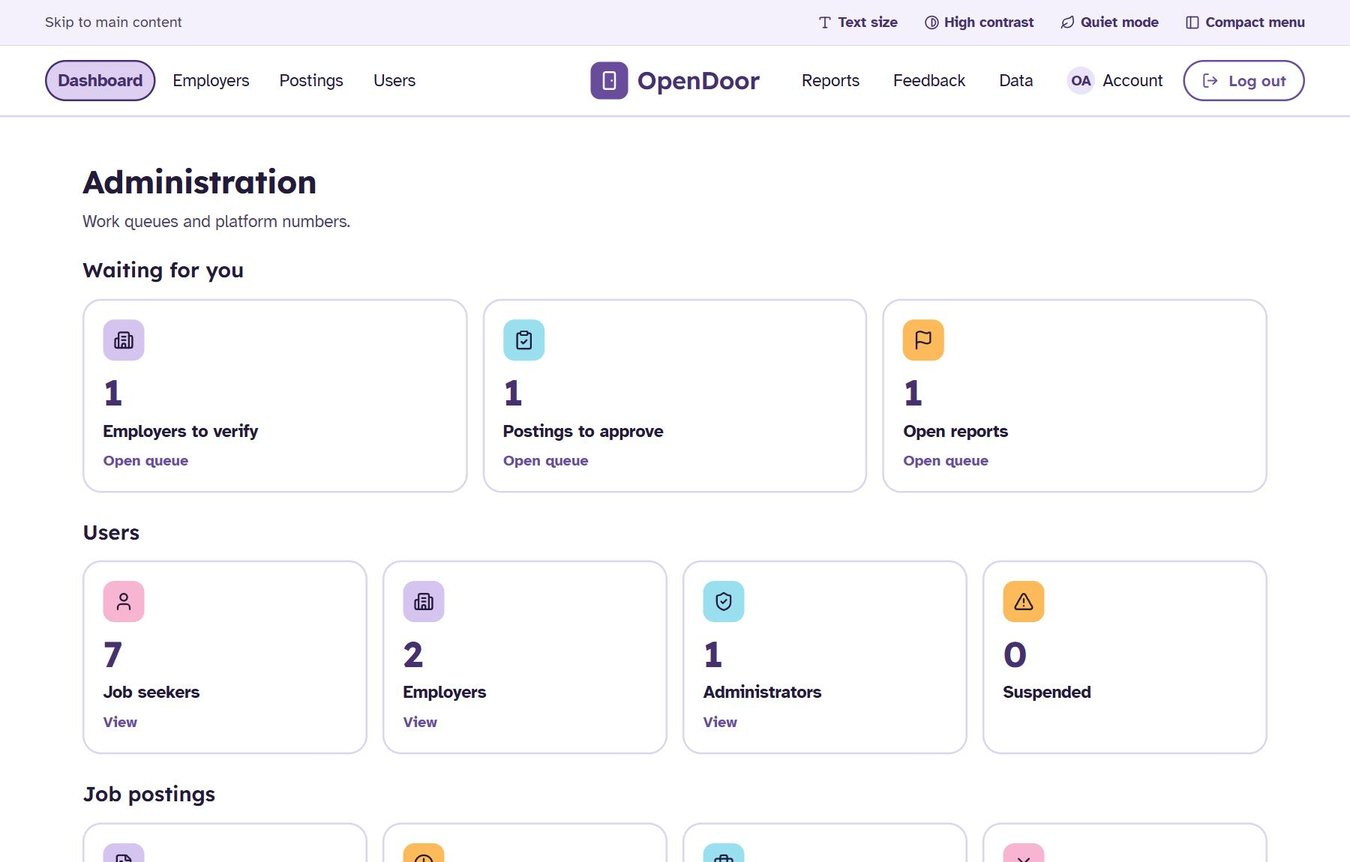
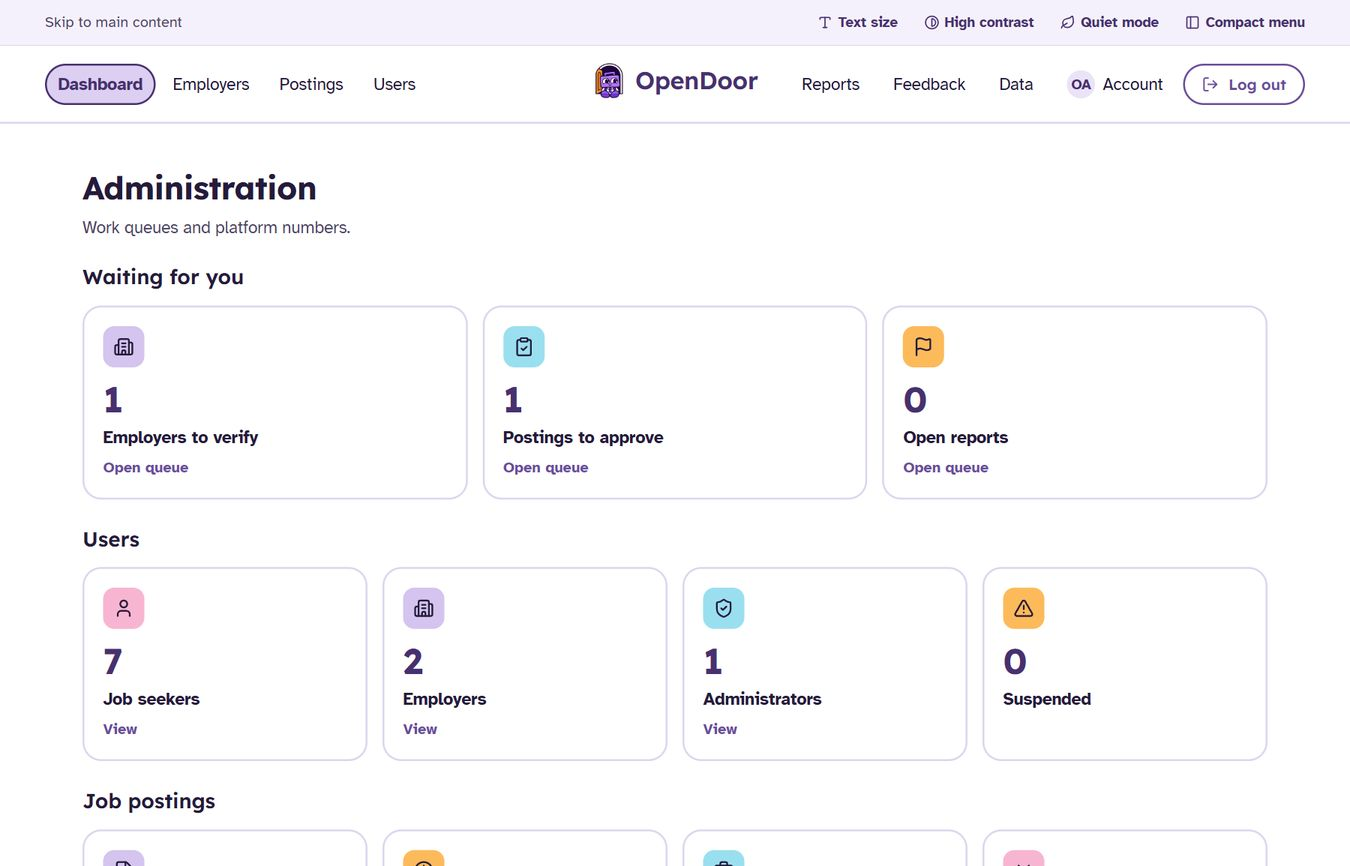
docs(sia): diagrams and screenshots as deployed
Email through Brevo's HTTPS API, the Vercel address, the scheduler in
the Core container and the onboarding columns in the ERD; 10 screens
recaptured read-only from production with the new logo.

diff --git a/docs/diagrams/diagrams.py b/docs/diagrams/diagrams.py
@@ -116,7 +116,7 @@ arrow(ax, (0.76, 0.39), (0.84, 0.60))
 arrow(ax, (0.76, 0.36), (0.84, 0.465))
 arrow(ax, (0.76, 0.33), (0.84, 0.325))
 ax.text(0.80, 0.25, "HTTPS\nREST/JSON", ha="center", fontsize=7.5)
-box(ax, 0.84, 0.08, 0.13, 0.10, "Email provider\n(SMTP, chosen\nat deployment)", C["ext"], 8)
+box(ax, 0.84, 0.08, 0.13, 0.10, "Email provider\n(Brevo,\nHTTPS API)", C["ext"], 8)
 arrow(ax, (0.57, 0.26), (0.84, 0.15), "notices,\nreset links", off=(0.085, 0.005))
 lx = 0.02
 for i, (k, lab) in enumerate([("client", "Client"), ("gw", "Gateway"), ("svc", "Service"),
@@ -205,12 +205,12 @@ ax.text(0.5, 0.975, "Deployment architecture and network boundaries", ha="center
         fontsize=12, fontweight="bold", color=GOLD)
 box(ax, 0.02, 0.62, 0.13, 0.13, "User browser\n(desktop / phone,\nscreen reader)", C["actor"], 8.5, True)
 zone(ax, 0.20, 0.60, 0.17, 0.25, "Vercel  (public)")
-box(ax, 0.215, 0.63, 0.14, 0.14, "React SPA build\nopendoor.vercel.app\nVITE_API_URL", C["client"], 8.5)
+box(ax, 0.215, 0.63, 0.14, 0.14, "React SPA build\nopendoor-rust.vercel.app\nVITE_API_URL", C["client"], 8.5)
 zone(ax, 0.42, 0.05, 0.40, 0.85, "Railway project  ·  production environment")
 zone(ax, 0.44, 0.66, 0.36, 0.17, "Public network (HTTPS, *.up.railway.app)")
 box(ax, 0.52, 0.68, 0.20, 0.10, "api-gateway\n:8080 (Express)", C["gw"], 8.5, True)
 zone(ax, 0.44, 0.08, 0.36, 0.55, "Private network (*.railway.internal, not reachable from internet)")
-box(ax, 0.46, 0.40, 0.15, 0.12, "core-api :8001\nLaravel 13, FrankenPHP\n+ core-scheduler", C["svc"], 8)
+box(ax, 0.46, 0.40, 0.15, 0.12, "core-api :8001\nLaravel 13, FrankenPHP\n+ scheduler (same container)", C["svc"], 8)
 box(ax, 0.63, 0.40, 0.15, 0.12, "insights-service\n:8002 Node 22", C["svc"], 8)
 box(ax, 0.46, 0.12, 0.15, 0.12, "business-registry-soap\n:8003 PHP 8.4\n(FrankenPHP)", C["legacy"], 8)
 box(ax, 0.63, 0.12, 0.15, 0.12, "MySQL 8 (managed)\nopendoor_core\ninsights_cache", C["db"], 8)
@@ -218,7 +218,7 @@ zone(ax, 0.86, 0.20, 0.13, 0.50, "Internet")
 box(ax, 0.87, 0.55, 0.11, 0.08, "Nominatim", C["ext"], 8)
 box(ax, 0.87, 0.45, 0.11, 0.08, "Overpass", C["ext"], 8)
 box(ax, 0.87, 0.35, 0.11, 0.08, "PSGC API", C["ext"], 8)
-box(ax, 0.87, 0.23, 0.11, 0.08, "Email (SMTP)", C["ext"], 8)
+box(ax, 0.87, 0.23, 0.11, 0.08, "Brevo email\n(HTTPS API)", C["ext"], 8)
 zone(ax, 0.02, 0.08, 0.35, 0.40, "GitHub")
 box(ax, 0.04, 0.27, 0.14, 0.12, "Monorepo\nmain / develop", C["db"], 8)
 box(ax, 0.21, 0.27, 0.14, 0.12, "GitHub Actions\nlint · test · build\nNewman · axe", C["gw"], 8)
@@ -281,7 +281,8 @@ def rel(points, a, b):
 
 table("notifications", 0, 0.93, ["id PK (UUIDv7)", "type", "notifiable_id FK (+ type)", "data (message, url, ids)", "read_at, created_at"])
 table("users", 1, 0.93, ["id PK", "name", "email (unique)", "password (bcrypt)", "role", "is_active", "consented_at",
-                         "display_prefs (JSON)", "email_notifications"])
+                         "display_prefs (JSON)", "email_notifications",
+                         "onboarding_tour_done", "onboarding_checklist_hidden"])
 table("employers", 2, 0.93, ["id PK", "user_id FK (unique)", "company_name", "business_reg_no, registry_type",
                              "industry, address", "location_psgc, location_label", "description, logo_path",
                              "verified_at", "verification_rejected_reason", "trust_score, feedback_count"])

diff --git a/PROGRESS.md b/PROGRESS.md
@@ -6,7 +6,7 @@
 ## Now
 
 - **Current phase:** Phase 9 – Release
-- **In progress:** Release tasks (Decision 2026-10-16), user away: (0) demo accounts email off on production; (1) Newman read-only smoke on production; (2) JMeter: raise gateway limit → `load-test:data --force` over ssh → tokens CSV → load 50×10, stress 100×5 + 200×5 → `--remove` → limit back to 120; (3) SIA doc (`opendoor-sia-docs` skill): URLs, Newman prod, JMeter 7.3/App. D/exec summary/10.1, deployment as built (8.x: Railway Free Trial Singapore 5 services, scheduler in Core, Brevo API, Vercel), onboarding (1.4, 4.1, App. A, data model, screens), 9.1 screenshots from production, rebuild + commit + push. Done: (0) 5 demo accounts email off on production; (1) **Newman production smoke 2026-10-16: 73 requests / 389 assertions / 0 failures, 18.4 s, avg 170 ms** (`tests/postman/build-smoke.mjs` → `OpenDoor.smoke.postman_collection.json`, read-only subset; reports in git-ignored `tests/postman/reports/production-smoke-2026-10-16.{json,html}`; production env file now points at the real gateway). Note: the local `services/core-api/.env` has an **empty `DEMO_PASSWORD`** since the user's Brevo edit (2026-10-16 00:33) – not touched; the production value is the Railway variable. (2) **JMeter on production done 2026-10-16** (production cleaned: load-test data removed, tokens deleted, gateway limit back to 120, 3 open jobs). Documented profile (60 s ramp-up): load 50×10 = 1,000 req, 0 % errors, avg 108 / median 98 / **P95 204 ms**, 16.4/s; stress 100×5 P95 222 ms, 200×5 P95 220 ms – but only 2–8 users were ever active at once (fast responses), so it did not stress. Added **burst runs (5 s ramp-up, same users/loops)**: 50 users (all 50 active) 1,000 req, 0 %, median 500, **P95 748 ms**, 72/s; 100 users P95 1,333 ms, 0 %, 78/s; 200 users P95 2,838 ms, 0 % (max 2,997 ms, 1,526 of 2,000 over 1.5 s), 81/s – throughput saturates at ~80 req/s (shared trial vCPU, one Core instance). Targets (P95 < 1,500 ms, errors < 1 % at 50 users) met in both profiles. Reports `tests/jmeter/report/prod-{load,stress-100,stress-200,burst-50,burst-100,burst-200}/` + `results-prod-*.jtl` (git-ignored). Trial usage after all tests: $0.05. Next action: (3) SIA doc.
+- **In progress:** Release tasks (Decision 2026-10-16), user away: (0) demo accounts email off on production; (1) Newman read-only smoke on production; (2) JMeter: raise gateway limit → `load-test:data --force` over ssh → tokens CSV → load 50×10, stress 100×5 + 200×5 → `--remove` → limit back to 120; (3) SIA doc (`opendoor-sia-docs` skill): URLs, Newman prod, JMeter 7.3/App. D/exec summary/10.1, deployment as built (8.x: Railway Free Trial Singapore 5 services, scheduler in Core, Brevo API, Vercel), onboarding (1.4, 4.1, App. A, data model, screens), 9.1 screenshots from production, rebuild + commit + push. Done: (0) 5 demo accounts email off on production; (1) **Newman production smoke 2026-10-16: 73 requests / 389 assertions / 0 failures, 18.4 s, avg 170 ms** (`tests/postman/build-smoke.mjs` → `OpenDoor.smoke.postman_collection.json`, read-only subset; reports in git-ignored `tests/postman/reports/production-smoke-2026-10-16.{json,html}`; production env file now points at the real gateway). Note: the local `services/core-api/.env` has an **empty `DEMO_PASSWORD`** since the user's Brevo edit (2026-10-16 00:33) – not touched; the production value is the Railway variable. (2) **JMeter on production done 2026-10-16** (production cleaned: load-test data removed, tokens deleted, gateway limit back to 120, 3 open jobs). Documented profile (60 s ramp-up): load 50×10 = 1,000 req, 0 % errors, avg 108 / median 98 / **P95 204 ms**, 16.4/s; stress 100×5 P95 222 ms, 200×5 P95 220 ms – but only 2–8 users were ever active at once (fast responses), so it did not stress. Added **burst runs (5 s ramp-up, same users/loops)**: 50 users (all 50 active) 1,000 req, 0 %, median 500, **P95 748 ms**, 72/s; 100 users P95 1,333 ms, 0 %, 78/s; 200 users P95 2,838 ms, 0 % (max 2,997 ms, 1,526 of 2,000 over 1.5 s), 81/s – throughput saturates at ~80 req/s (shared trial vCPU, one Core instance). Targets (P95 < 1,500 ms, errors < 1 % at 50 users) met in both profiles. Reports `tests/jmeter/report/prod-{load,stress-100,stress-200,burst-50,burst-100,burst-200}/` + `results-prod-*.jtl` (git-ignored). Trial usage after all tests: $0.05. (3) SIA doc in progress: diagrams updated + regenerated (email = Brevo HTTPS API, Vercel URL, scheduler in the Core container, ERD users onboarding columns); 10 of 11 9.1 screenshots recaptured read-only from production (scratchpad `deploy/sia-capture.mjs`, 1,440 px × 1.25 → 1,350 px JPG) – the job page + snapshot crop wait for Overpass (both public servers failing 2026-10-16: 502/500, also from the laptop), else keep the 14 Oct images; next: `build.js` text edits (URLs, 1.4, 3.3/3.4, 4.1 + App. A onboarding, 5.2, 6.3, 7.2 prod smoke, 7.3 + App. D JMeter, 8.2/8.4 deployment as built, 9.1 dims/note, 10.1 rows 4–5, 10.2, App. E/F, references Brevo), then `node build.js` + Word PDF check.
 - **Earlier (finished except team items):** Final SIA doc pass (Decision 2026-10-14), in sub-steps, each committed: (a) text sync with the code – 1.4 scope, 3.x stack, 4.1/Appendix A endpoints (display prefs, email notifications, forgot/reset password, `saved` in search, `reviewed_at`), 4.5 Overpass, 5.2 notices, data model, 8.4 CI, Appendix D JMeter wording, 9.2 numbers vs seed, references; (b) 7.1 Actual/Status + 7.2 Newman totals from the latest green CI run's report artifact; (c) 9.1 screenshots from `tests/a11y/results/ui-reference/shots/` (2026-10-14 capture, no stack needed) + ERD image; (d) ask the user for team-only items. Production URLs and JMeter (7.3) stay open until deployment. Done: (a) text sync (`7311cc3`, `3d0bd71`, `2cf410e`); (b) results from manual CI run 38493807232 (all 7 jobs green on `59e1c36`: Newman 193/933/0 + T13 run 15/87/0, Core 365, Vitest 148, gateway 24, Insights 135, registry 39, axe 0 on 33 pages) – 7.1 all 16 PASS, 7.2 table + report screenshot, App. C, exec summary, 10.1; (c) 9.1 screenshots in `docs/diagrams/screens/` (from the 2026-10-14 UI reference capture), repository link. ERD drawn from the migrations (`fig6_erd.png`, Appendix F, Figure 7). (d) done except team details: 7.4 has D01–D10 from the repo history + the open CI T13 note; 10.4 drafted (yellow note until the team reviews it); gitleaks 8.30.1 over 169 commits: no leaks (10.1 objective 3). Team details filled 2026-10-14 (user): Group 3 – ICARUS, IT31S1, Ms. Justine Neypes, submission October 19, 2026; members Beronilla, Jianina · Crisologo, Angellana · Ruzgal, Francis Aaron · Siochi, Onekhyle · Su, Alfred G. Instructor spelling confirmed: Neypes. The user fills the student numbers and roles themselves (Group Members table, `[[Student No.]]`/`[[Role]]` in `build.js`); section 11 stays for the team. Before the next `node build.js`, check whether the team edited the .docx by hand (a rebuild overwrites it) and carry their entries into `build.js`. Still open after that: deployment-time items (URLs, mail provider, JMeter 7.3/App. D/exec-summary note, 10.1 rows 4–5) and NVDA/SUS (10.1 row 6), section 11.
 - **Next step:** Push the 12 local commits when the user says so (onboarding + docs). SIA doc mention of onboarding (Known issues). Then deployment when the user says so (recommended now – submission October 19, 2026; needs the mail provider choice, Railway Hobby plan confirmation and the user's `railway login` / `vercel login`); then Newman smoke + JMeter against production and the remaining SIA placeholders. NVDA run and SUS sessions by the team. The user can try Speak with a real microphone in Chrome/Edge. Local stack (Core/Insights/gateway/Vite) stopped 2026-10-15 by Claude Code for low memory; only the registry (8003, from 2026-10-14) still runs – restart only when the user asks – start it only when the user asks (registry 8003, Core 8001 on `opendoor_core`, Insights 8002, gateway 8080, Vite 5173; start with `php`/`node` directly).
 - **Blockers:** –
